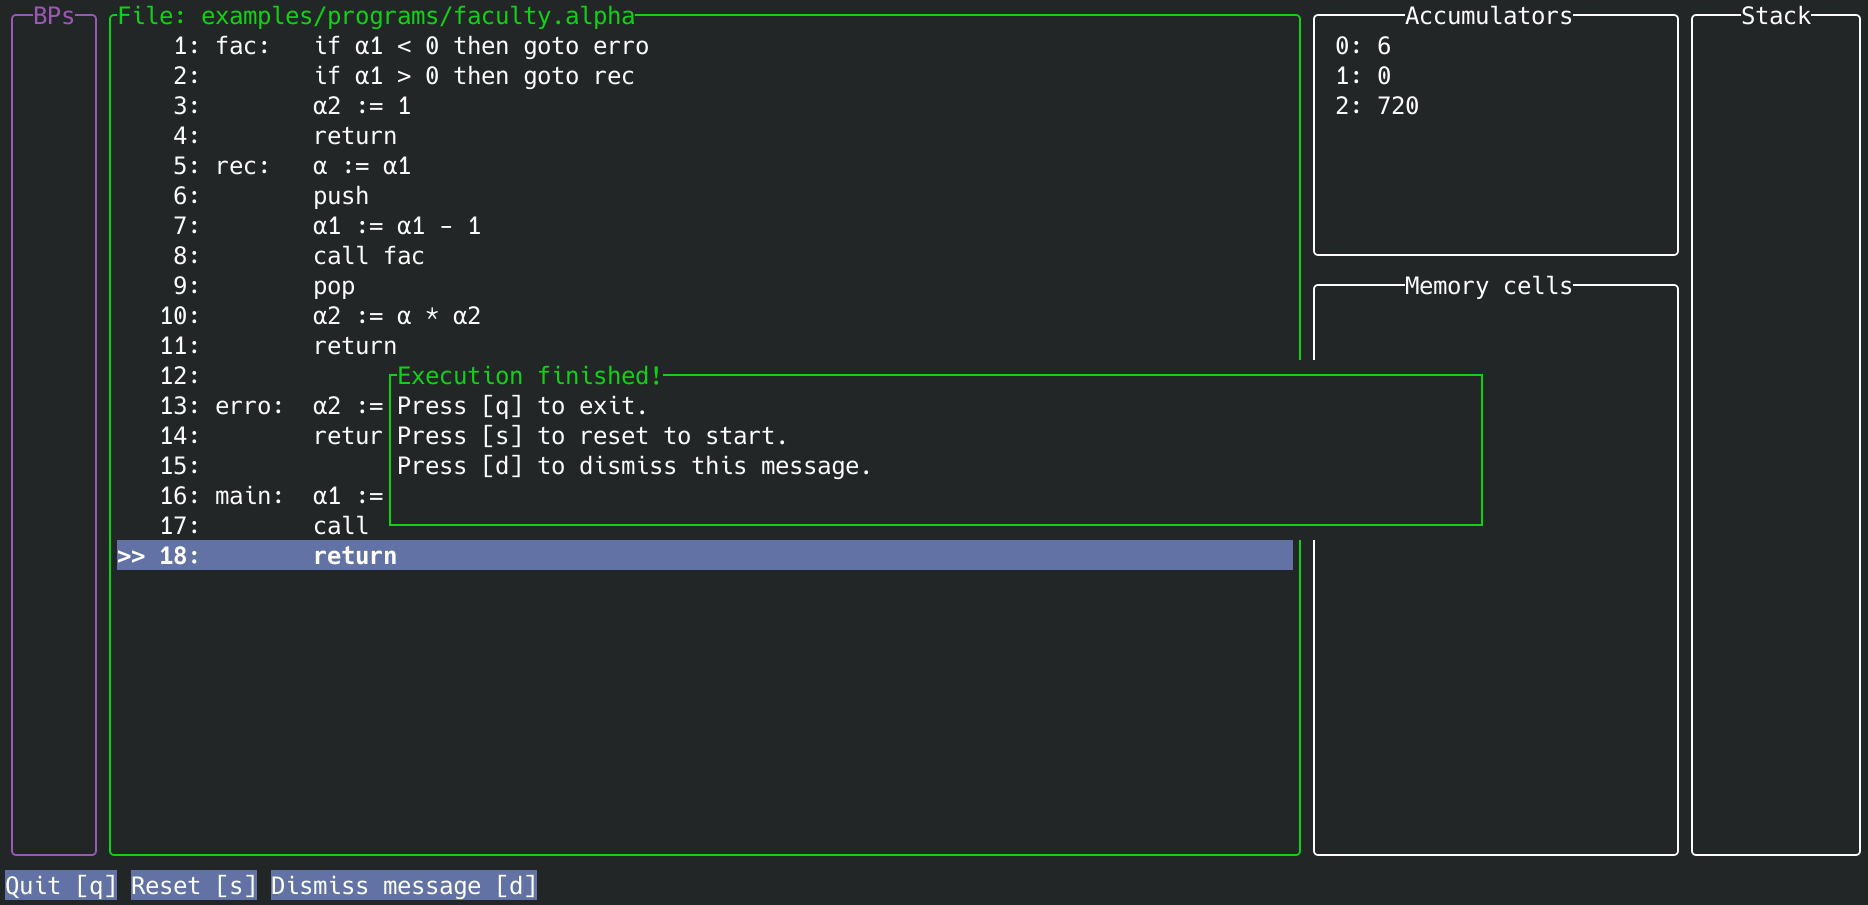
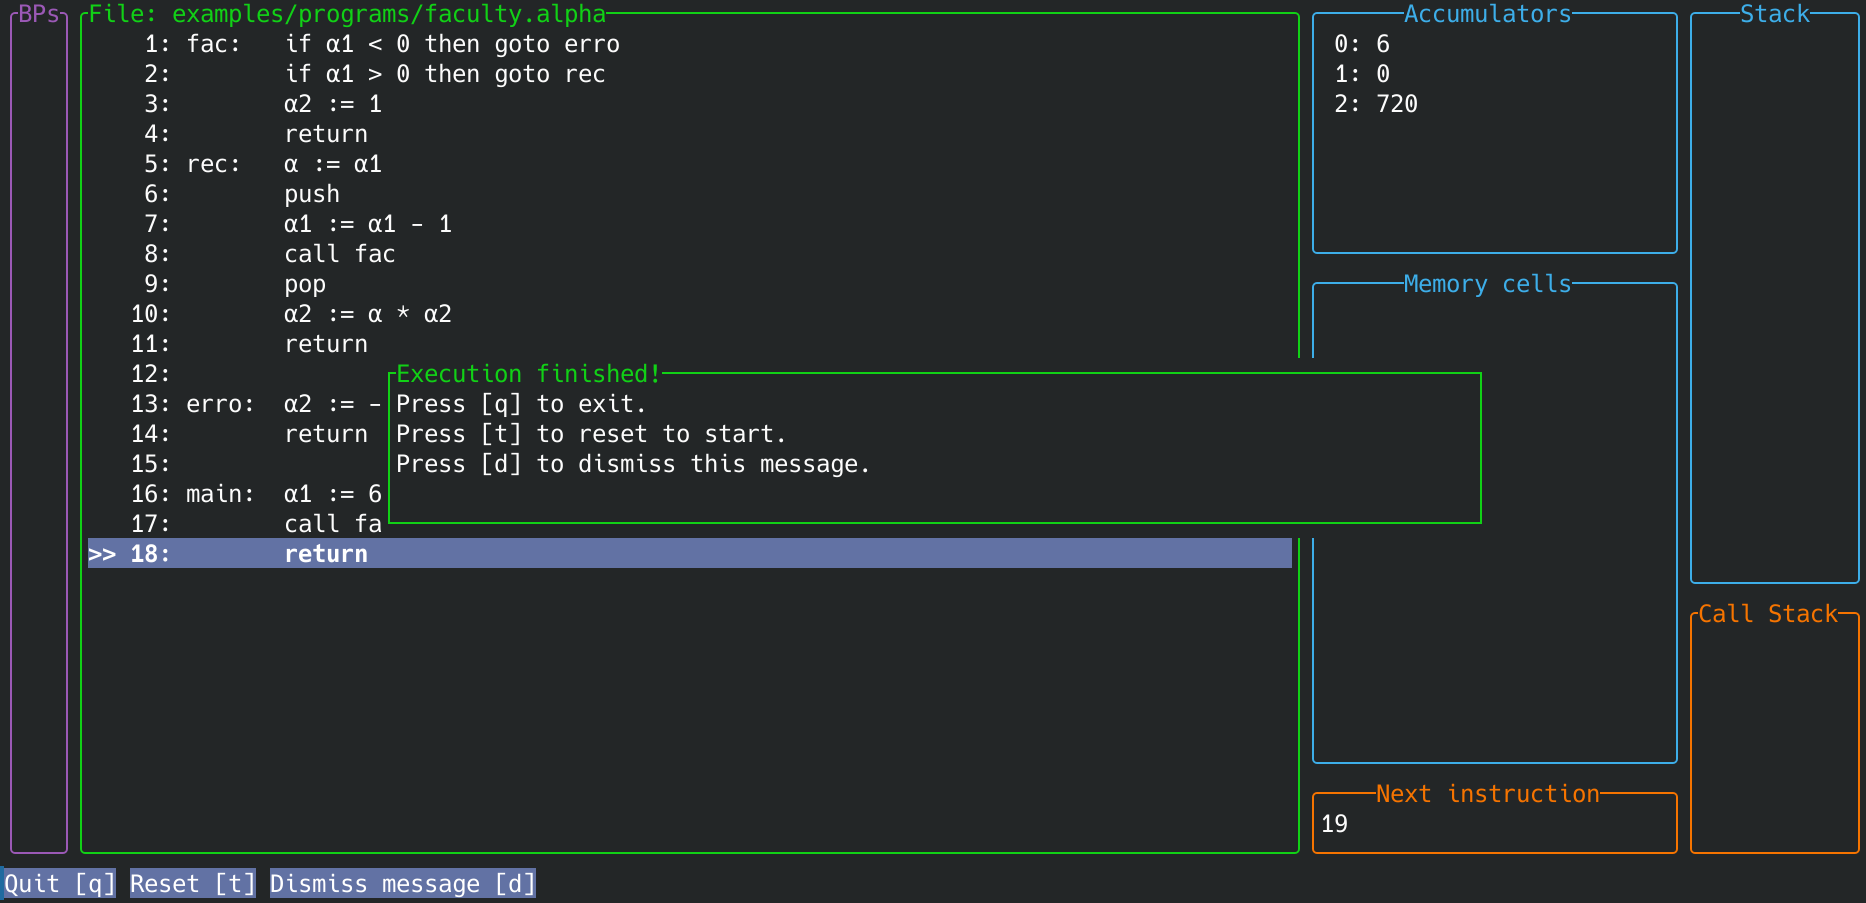
Updated screenshots

diff --git a/docs/interface_and_usage.md b/docs/interface_and_usage.md
@@ -22,9 +22,9 @@ To see all arguments that are available with this command use `.\alpha_tui help 
 
 When a program is loaded it can look like this: ![Program loaded example](../media/gui_program_loaded.png)
 
-Press `[r]` to begin to run the program, subsequent instructions can also be run with `[r]`. Values that have changed and the line that was run last are highlighted.  This can look like this: ![Program running example](../media/gui_program_running.png)
+Press `[s]` to begin to run the program, subsequent instructions can be run with `[n]`. Values that have changed and the line that was run last are highlighted.  This can look like this: ![Program running example](../media/gui_program_running.png)
 
-When the last instruction was executed the following window is displayed. You can restart by pressing `[s]` or exit the program by pressing `[q]`. ![Program finished example](../media/gui_program_finished.png)
+When the last instruction was executed the following window is displayed. You can restart by pressing `[t]` or exit the program by pressing `[q]`. ![Program finished example](../media/gui_program_finished.png)
 
 Below the memory cells section the address of the instruction that is executed next is displayed.
 
@@ -58,11 +58,11 @@ Navigate by using the `arrow keys`, for ease of use `[w]` and `[s]` are also sup
 
 Breakpoints can be set to run all lines of code up until the line in which the breakpoint is set.
 
-To set a breakpoint enter `debug select mode` and press `[t]` in the line in which you want to set the breakpoint. A star to the left will indicate where a breakpoint is placed.
+To set a breakpoint enter `debug select mode` and press `[b]` in the line in which you want to set the breakpoint. A star to the left will indicate where a breakpoint is placed.
 
 A placed breakpoint can look like this: ![Breakpoint set](../media/gui_breakpoint_set.png)
 
-Press `[n]` when in run mode to make the program run automatically to the next breakpoint (note how the values to the right have been updated): ![Next breakpoint](../media/gui_breakpoint_mode_run.png)
+Press `[r]` when in run mode to make the program run automatically to the next breakpoint (note how the values to the right have been updated): ![Next breakpoint](../media/gui_breakpoint_mode_run.png)
 
 #### Jump to line
 
